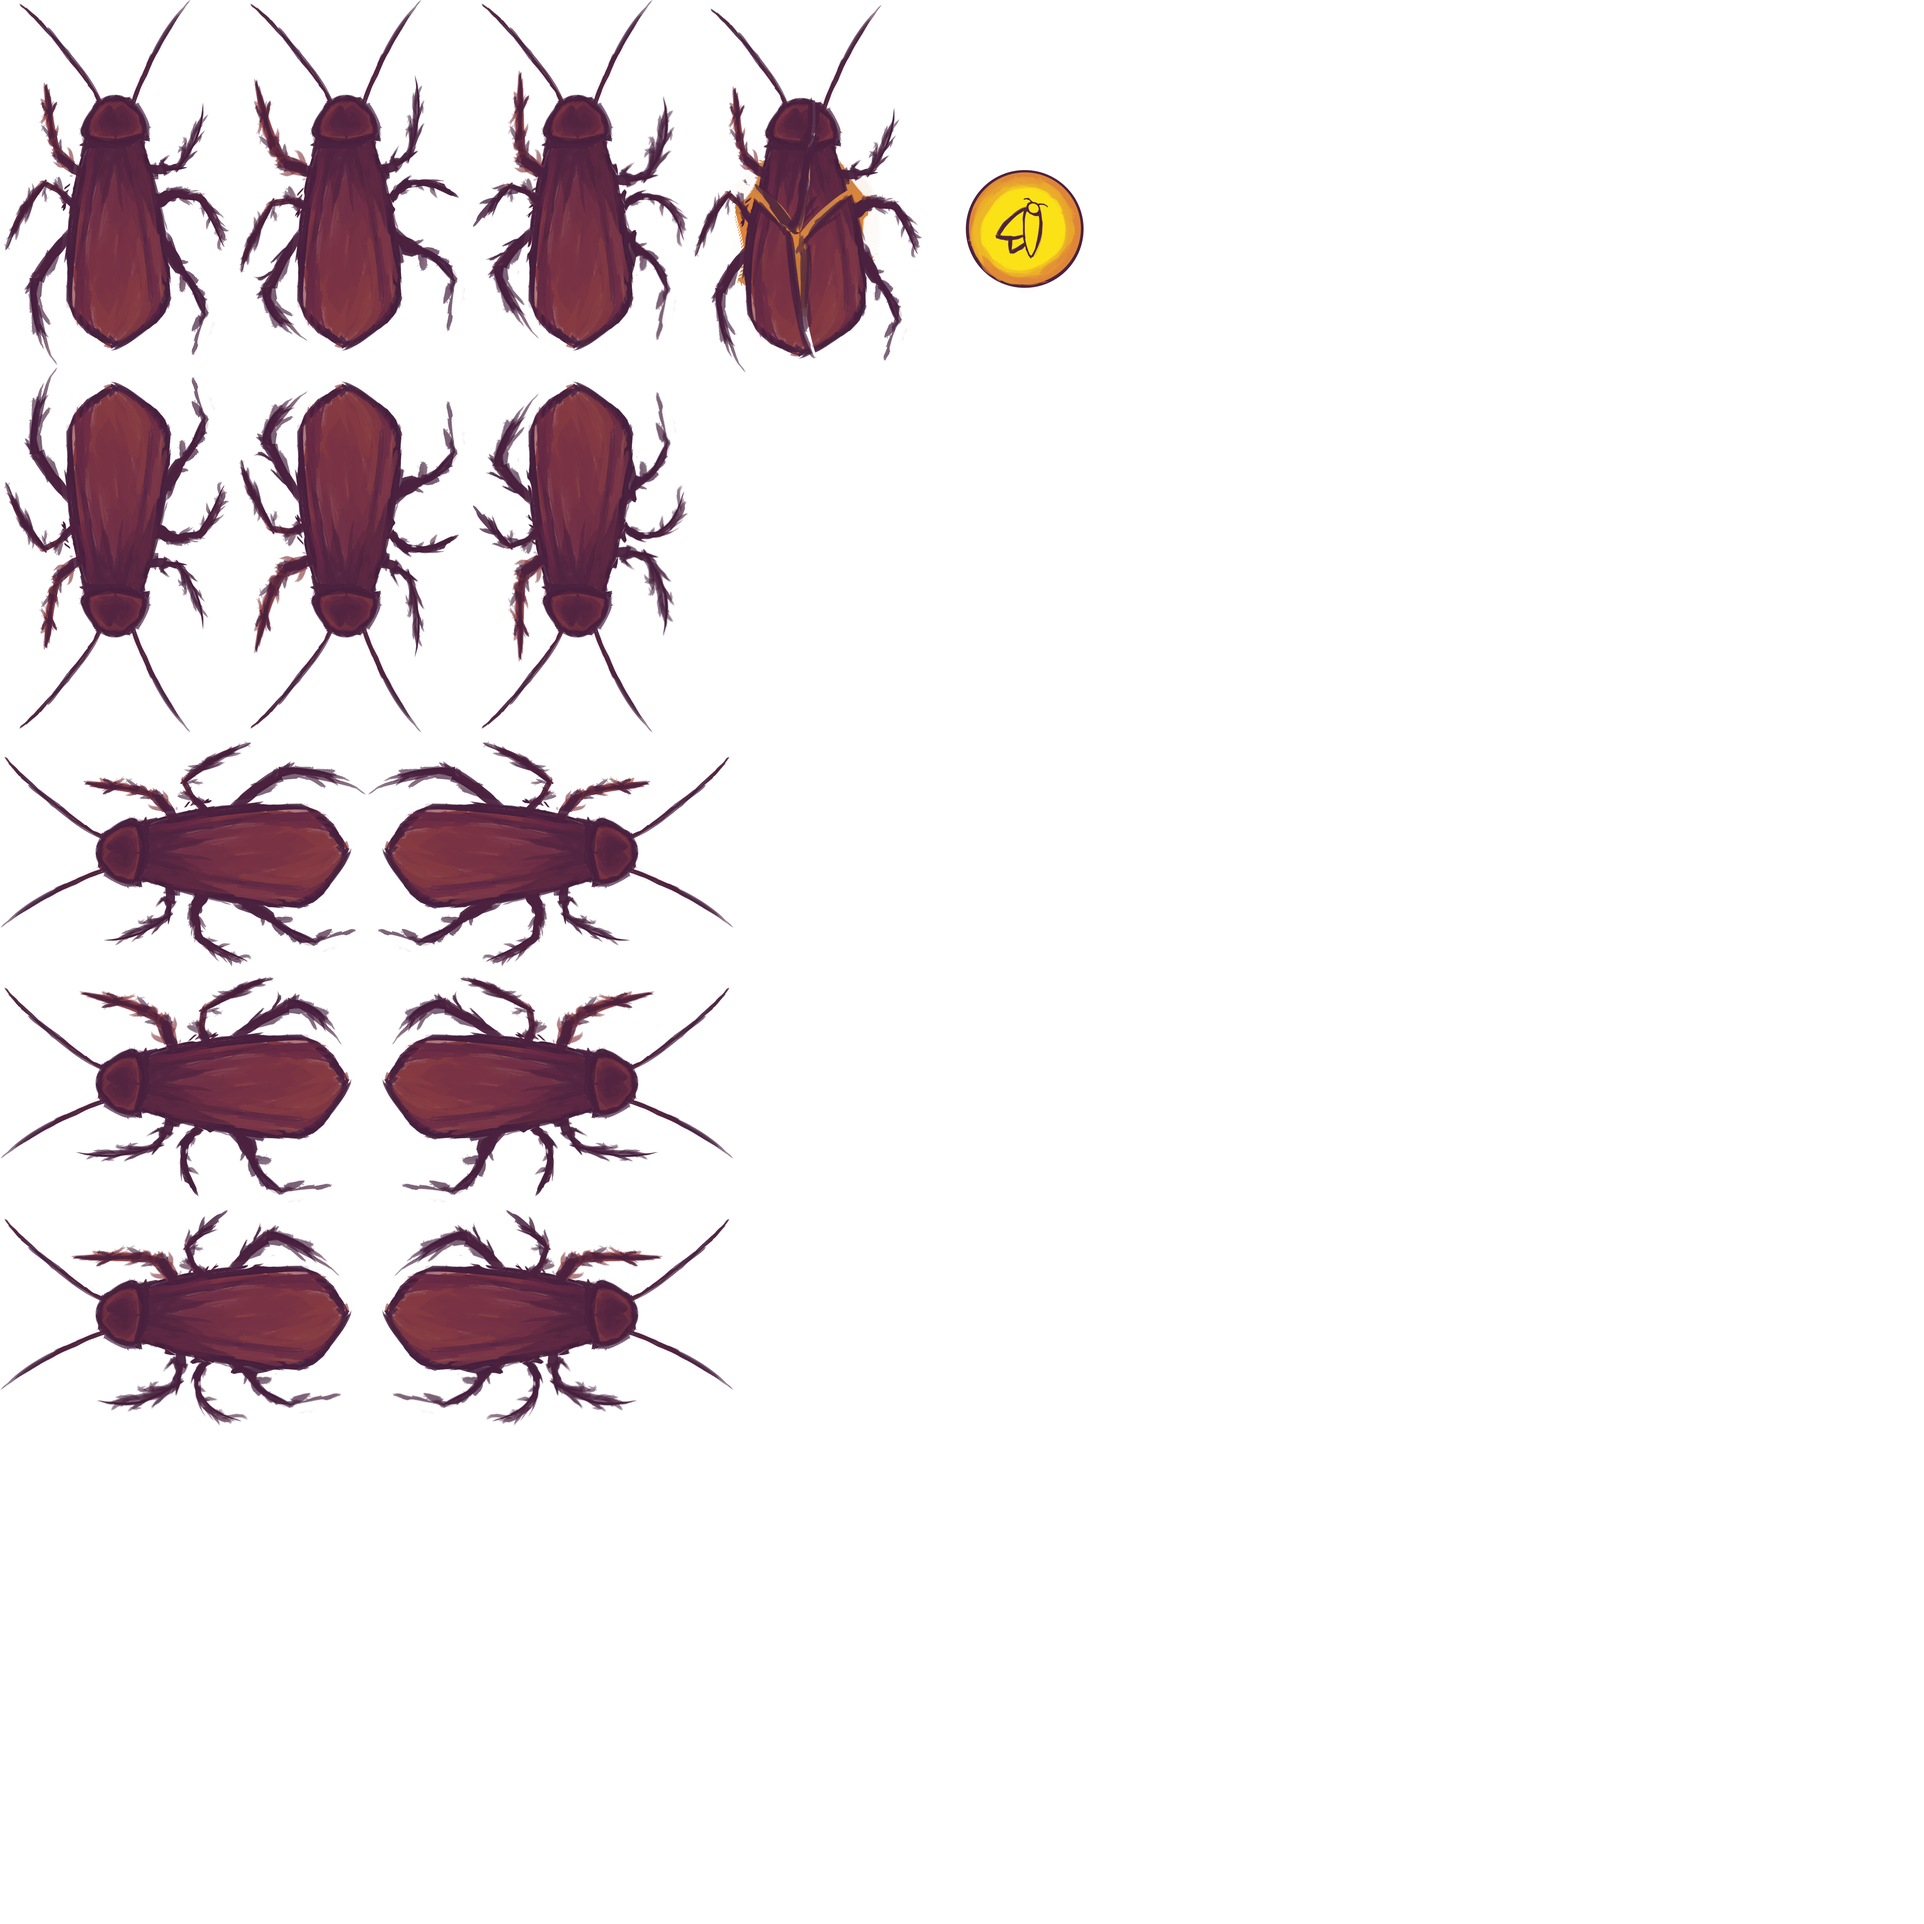
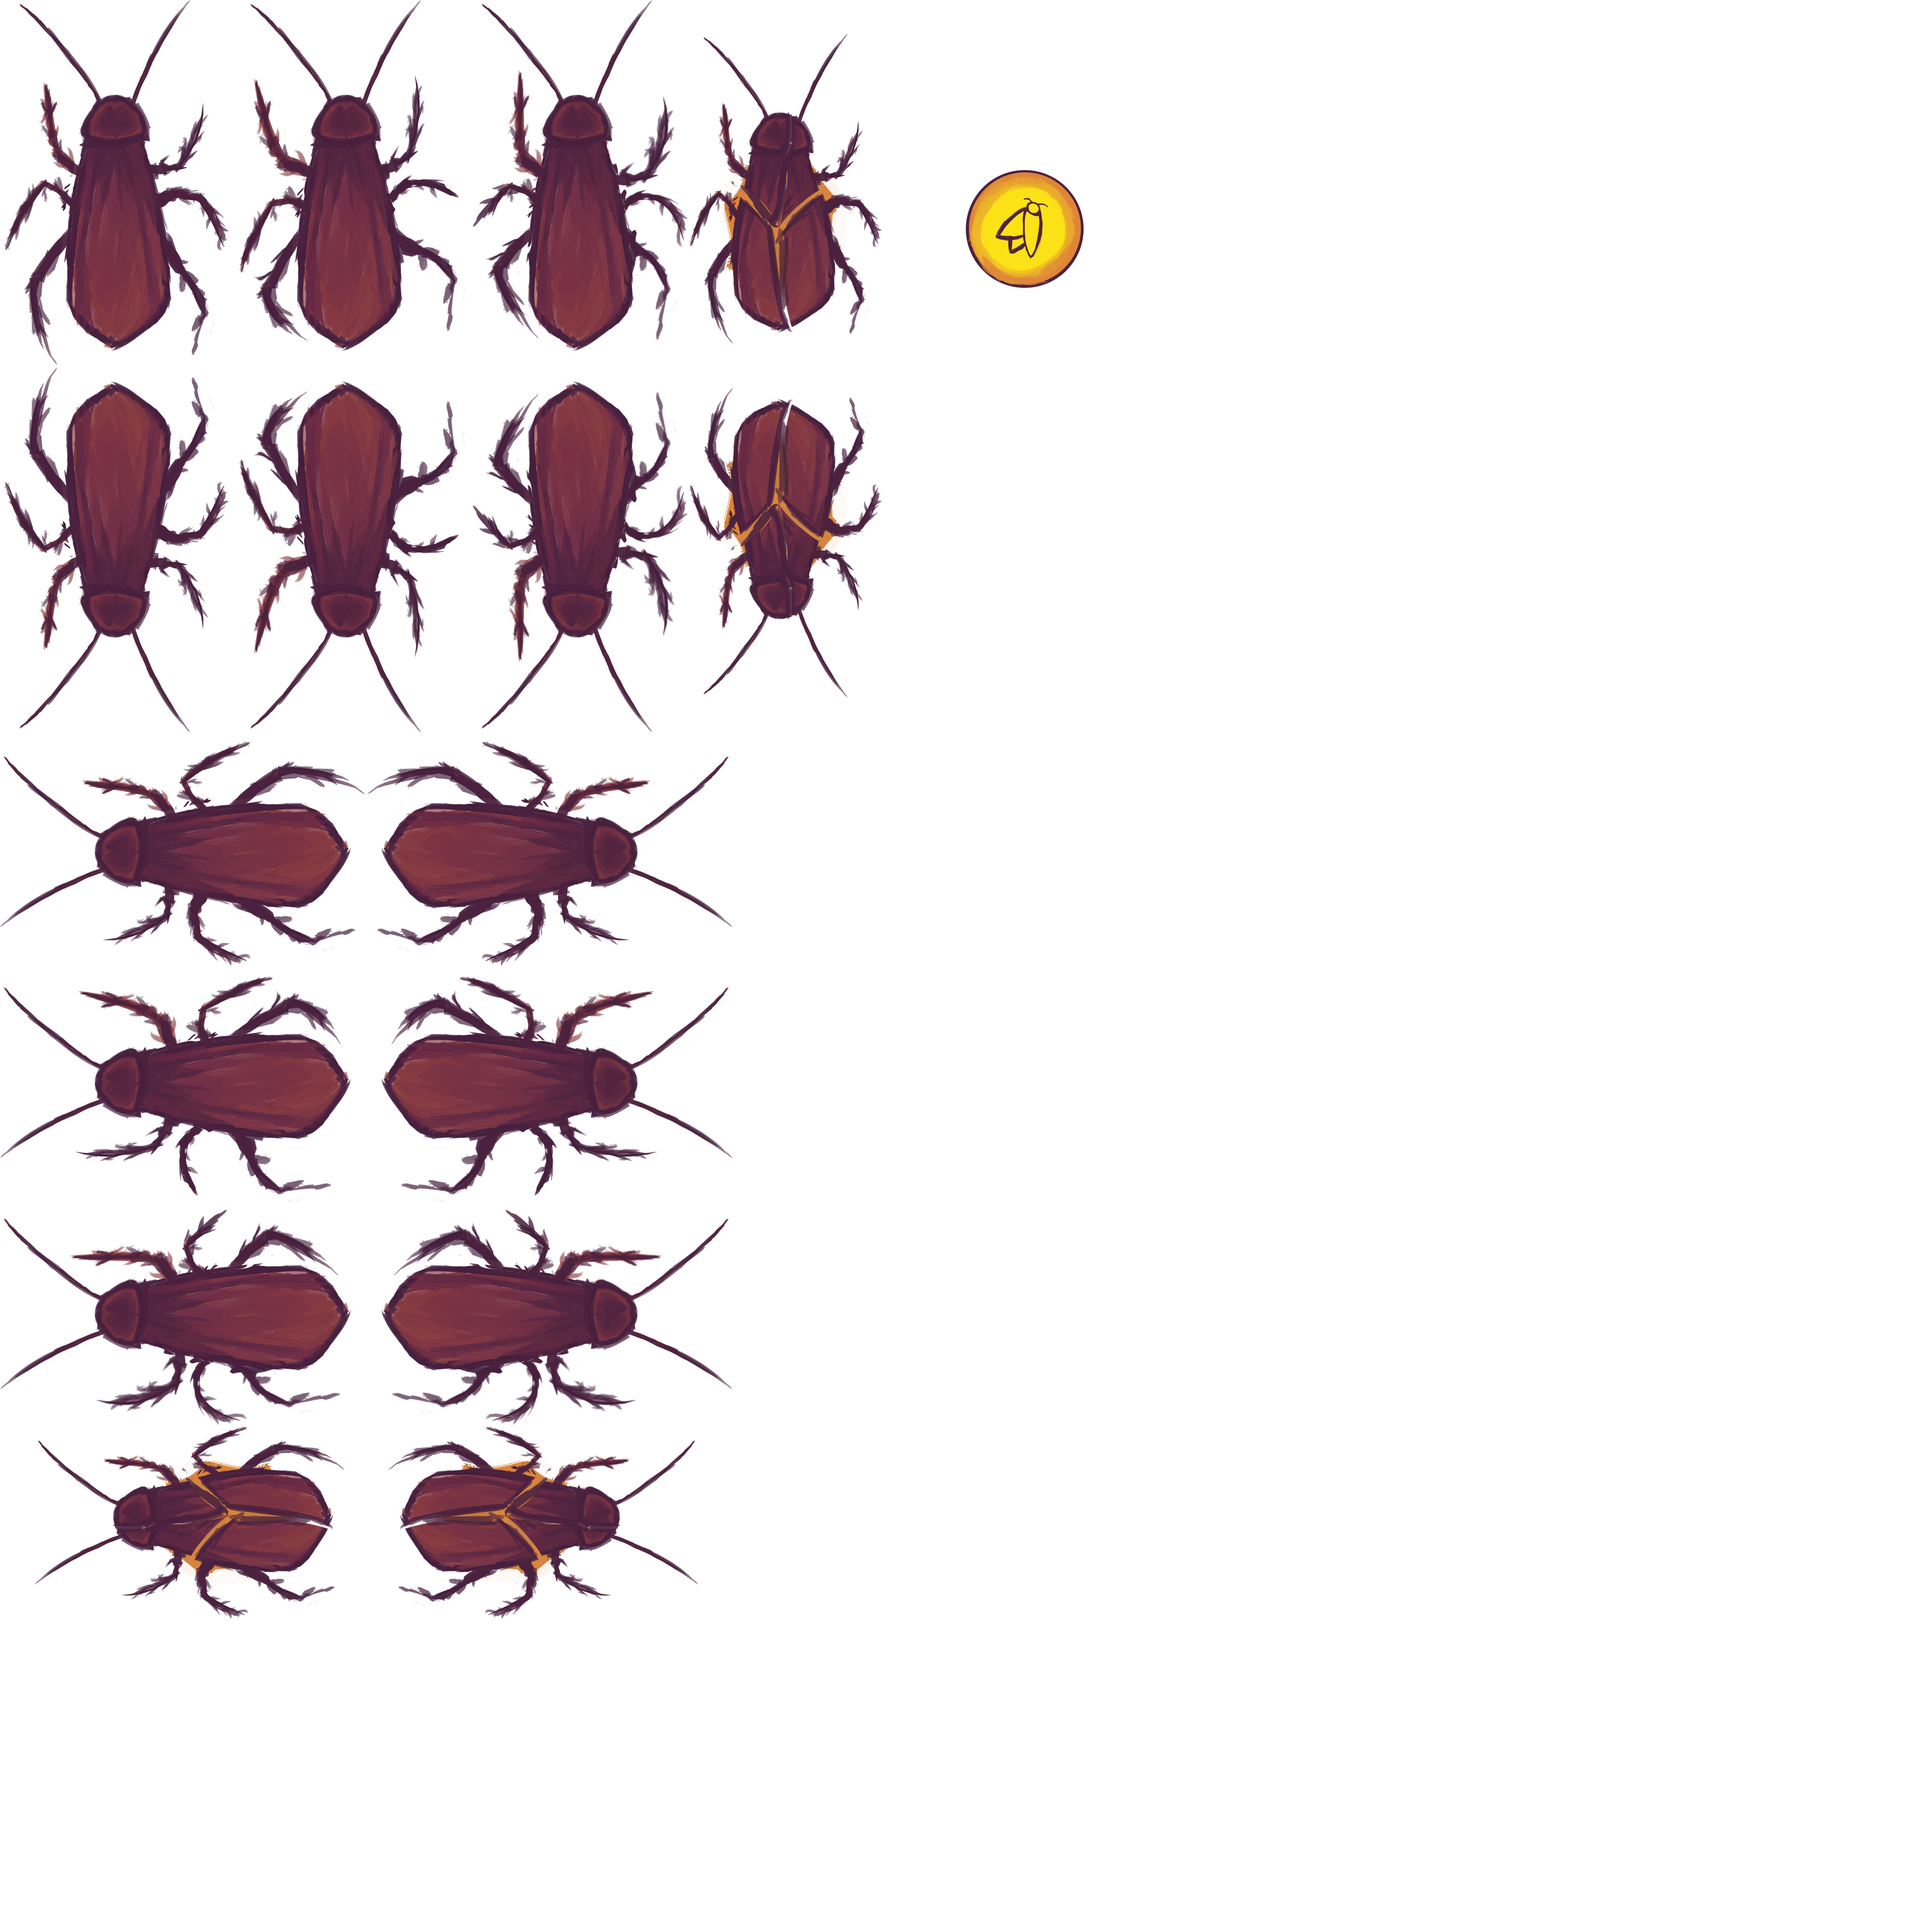
:sparkles: :art: death/squished sprite

diff --git a/graphics/bug_squish/sketch.js b/graphics/bug_squish/sketch.js
@@ -1,245 +1,3 @@
-// let spriteSheet;
-//
-// let spriteSheetFilenames = ["bug2.png" ];
-// let spriteSheets = [];
-// let animations = [];
-//
-// const GameState = {
-//   Start: "Start",
-//   Playing: "Playing",
-//   GameOver: "GameOver"
-// };
-//
-// let game = { score: 0, maxScore: 0, maxTime: 10, elapsedTime: 0, totalSprites: 15, state: GameState.Start, targetSprite: 2 };
-//
-// function preload() {
-//   for(let i=0; i < spriteSheetFilenames.length; i++) {
-//     spriteSheets[i] = loadImage("assets/" + spriteSheetFilenames[i]);
-//   }
-// }
-//
-// function setup() {
-//   createCanvas(400, 400);
-//   imageMode(CENTER);
-//   angleMode(DEGREES);
-//
-//   reset();
-// }
-//
-// function reset() {
-//   game.elapsedTime = 0;
-//   game.score = 0;
-//   game.totalSprites = random(10,30);
-//
-//   animations = [];
-//   for(let i=0; i < game.totalSprites; i++) {
-//     animations[i] = new WalkingAnimation(random(spriteSheets),32,32,random(100,300),random(100,300),9,random(0.5,1),4,random([0,1]));
-//   }
-// }
-//
-// function draw() {
-//   switch(game.state) {
-//     case GameState.Playing:
-//       background(220);
-//   
-//       for(let i=0; i < animations.length; i++) {
-//         animations[i].draw();
-//       }
-//       fill(0);
-//       textSize(40);
-//       text(game.score,20,40);
-//       let currentTime = game.maxTime - game.elapsedTime;
-//       text(ceil(currentTime), 300,40);
-//       game.elapsedTime += deltaTime / 1000;
-//
-//       if (currentTime < 0)
-//         game.state = GameState.GameOver;
-//       break;
-//     case GameState.GameOver:
-//       game.maxScore = max(game.score,game.maxScore);
-//
-//       background(0);
-//       fill(255);
-//       textSize(40);
-//       textAlign(CENTER);
-//       text("Game Over!",200,200);
-//       textSize(35);
-//       text("Score: " + game.score,200,270);
-//       text("Max Score: " + game.maxScore,200,320);
-//       break;
-//     case GameState.Start:
-//       background(0);
-//       fill(255);
-//       textSize(50);
-//       textAlign(CENTER);
-//       text("Cyclops Game",200,200);
-//       textSize(30);
-//       text("Press Any Key to Start",200,300);
-//       break;
-//   }
-// }
-//
-// function keyPressed() {
-//   switch(game.state) {
-//     case GameState.Start:
-//       game.state = GameState.Playing;
-//       break;
-//     case GameState.GameOver:
-//       reset();
-//       game.state = GameState.Playing;
-//       break;
-//   }
-// }
-//
-// function mousePressed() {
-//   switch(game.state) {
-//     case GameState.Playing:
-//       for (let i=0; i < animations.length; i++) {
-//         let contains = animations[i].contains(mouseX,mouseY);
-//         if (contains) {
-//           if (animations[i].moving != 0) {
-//             animations[i].stop();
-//             if (animations[i].spritesheet === spriteSheets[game.targetSprite])
-//               game.score += 1;
-//             else
-//               game.score -= 1;
-//           }
-//           else {
-//             if (animations[i].xDirection === 1)
-//               animations[i].moveRight();
-//             else
-//               animations[i].moveLeft();
-//           }
-//         }
-//       }
-//       break;
-//     // case GameState.GameOver:
-//     //   reset();
-//     //   game.state = GameState.Playing;
-//     //   break;
-//   }
-//   
-// }
-//
-// class WalkingAnimation {
-//   constructor(spritesheet, spriteWidth, spriteHeight,
-//     locationX, locationY,
-//     animationLength,
-//     movementSpeed,
-//     framerate,
-//     onlyMoveVertically = false
-//   ) {
-//     this.spritesheet = spritesheet;
-//     this.spriteWidth = spriteWidth;
-//     this.spriteHeight = spriteHeight;
-//
-//     this.locationX = locationX;
-//     this.locationY = locationY;
-//
-//     this.u = 0;
-//     this.v = 0;
-//     this.animationLength = animationLength;
-//     this.currentFrame = 0;
-//
-//     this.moving = 1;
-//     this.xDirection = 1;
-//     this.movementSpeed = movementSpeed;
-//     this.framerate = framerate*movementSpeed;
-//     this.onlyMoveVertically = onlyMoveVertically;
-//   }
-//
-//   draw() {
-//
-//     // if (this.moving != 0)
-//     //   this.u = this.currentFrame % this.animationLength;
-//     // else
-//     //   this.u = 0;
-//
-//     this.u = (this.moving != 0) ? this.currentFrame % this.animationLength : this.u;
-//     push();
-//     translate(this.locationX,this.locationY);
-//     if (!this.onlyMoveVertically)
-//       rotate(90);
-//     scale(this.xDirection,1);
-//     
-//
-//     //rect(-26,-35,50,70);
-//
-//     image(this.spritesheet,0,0,
-//       this.spriteWidth,this.spriteHeight,
-//       this.u*this.spriteWidth,
-//       this.v*this.spriteHeight,
-//       this.spriteWidth,this.spriteHeight);
-//     pop();
-//     let proportionalFramerate = round(frameRate() / this.framerate);
-//     if (frameCount % proportionalFramerate == 0) {
-//       this.currentFrame++;
-//     }
-//   
-//     if (this.onlyMoveVertically) {
-//       this.locationY += this.moving*this.movementSpeed;
-//       this.move(this.locationY,this.spriteWidth / 4,height - this.spriteWidth / 4);
-//     }
-//     else {
-//       this.locationX += this.moving*this.movementSpeed;
-//       this.move(this.locationX,this.spriteWidth / 4,width - this.spriteWidth / 4);
-//     }
-//
-//     
-//   }
-//
-//   move(position,lowerBounds,upperBounds) {
-//     if (position > upperBounds) {
-//       this.moveLeft();
-//     } else if (position < lowerBounds) {
-//       this.moveRight();
-//     }
-//   }
-//
-//   moveRight() {
-//     this.moving = 1;
-//     this.xDirection = 1;
-//     this.v = 0;
-//   }
-//
-//   moveLeft() {
-//     this.moving = -1;
-//     this.xDirection = -1;
-//     this.v = 0;
-//   }
-//
-//   keyPressed(right, left) {
-//     if (keyCode === right) {
-//       
-//       this.currentFrame = 1;
-//     } else if (keyCode === left) {
-//
-//       this.currentFrame = 1;
-//     }
-//   }
-//
-//   keyReleased(right,left) {
-//     if (keyCode === right || keyCode === left) {
-//       this.moving = 0;
-//     }
-//   }
-//
-//   contains(x,y) {
-//     //rect(-26,-35,50,70);
-//     let insideX = x >= this.locationX - 26 && x <= this.locationX + 25;
-//     let insideY = y >= this.locationY - 35 && y <= this.locationY + 35;
-//     return insideX && insideY;
-//   }
-//
-//   stop() {
-//     this.moving = 0;
-//     this.u = 7;
-//     this.v = 8;
-//   }
-// }
-//
-// ///////////////////////////////////////////////////////////////
-
 //Canvas properties:
 let CANVAS_WIDTH = 2000;
 let CANVAS_HEIGHT = 1200;
@@ -358,7 +116,7 @@ function draw() {
   // noSmooth();
   // image(spriteSheet, 0, 200, 220, 400, 600, 0, 600, 960);
   // image(spriteSheet, 0, 200, 220, 400, 0, 1016, 600, 960);
-  // image(spriteSheet, 0, 200, 400, 220, 0, 1945, 960, 600);
+  image(spriteSheet, 0, 200, 400, 220, 0, 3725, 960, 600);
   // image(spriteSheet, 0, 200, 165, 250, 2500, 0, 500, 825);
 }
 
@@ -368,6 +126,7 @@ function restart() {
   scoreData.score = 0;
   console.log("score", gameData.score);
   gameData.amountOfBug = random(12, 30);
+  // gameData.amountOfBug = 1;
 
   bugArray = [];
   for(let i = 0; i < gameData.amountOfBug; i++) {
@@ -519,12 +278,11 @@ class Bug {
     push();
     noSmooth();
 
-    this.checkCanvasCollision();
 
-
-    let baseFramerate = 1*this.movementSpeed;
-    let proportionalFramerate = round(frameRate() / baseFramerate);
     if(this.isAlive) {
+      this.checkCanvasCollision();
+      let baseFramerate = 1*this.movementSpeed;
+      let proportionalFramerate = round(frameRate() / baseFramerate);
       if(frameCount % proportionalFramerate === 0) {
         // console.log("call");
         this.animationHandler();
@@ -538,26 +296,32 @@ class Bug {
     // console.log(this.hitboxCheck(mouseX, mouseY));
     // this.hitboxCheck(mouseX, mouseY);
     // image(spriteSheet, 0, 200, 220, 400, 0, 0, 600, 960);
-    if(this.isAlive) {
-      if(this.onlyMoveVertically) {
-        image(
-          spriteSheet, this.initalX, this.initalY,
-          this.destinationX*this.sizeScaling, this.destinationY*this.sizeScaling,
-          this.spriteXCoordinate + (this.spriteWidth * this.currentFrame),
-          this.spriteYCoordinate,
-          this.spriteWidth, this.spriteHeight
-        )
-      }
-      else if(this.onlyMoveHorizontally) {
-        image(
-          spriteSheet, this.initalX, this.initalY,
-          this.destinationX*this.sizeScaling, this.destinationY*this.sizeScaling,
-          this.spriteXCoordinate,
-          this.spriteYCoordinate + (this.spriteHeight * this.currentFrame),
-          this.spriteWidth, this.spriteHeight
-        )
-      }
+    // if(this.isAlive) {
+    if(this.onlyMoveVertically) {
+      console.log("vertical render", this.currentFrame);
+      // console.log( this.currentFrame);
+      image(
+        spriteSheet, this.initalX, this.initalY,
+        this.destinationX*this.sizeScaling, this.destinationY*this.sizeScaling,
+        this.spriteXCoordinate + (this.spriteWidth * this.currentFrame),
+        this.spriteYCoordinate,
+        this.spriteWidth, this.spriteHeight
+      )
     }
+    else if(this.onlyMoveHorizontally) {
+      // image(spriteSheet, 0, 200, 400, 220, 0, 3725, 960, 600);
+      console.log("hor render");
+
+      console.log(this.spriteYCoordinate + (this.spriteHeight * this.currentFrame));
+      image(
+        spriteSheet, this.initalX, this.initalY,
+        this.destinationX*this.sizeScaling, this.destinationY*this.sizeScaling,
+        this.spriteXCoordinate,
+        this.spriteYCoordinate + (this.spriteHeight * this.currentFrame),
+        this.spriteWidth, this.spriteHeight
+      )
+    }
+    // }
     pop();
   }
 
@@ -566,20 +330,21 @@ class Bug {
     // console.log("check hitbox...");
     // rect(12, 10, this.spriteWidth - 23, this.spriteHeight - 16);
     let insideX = (x <= this.initalX + this.destinationX*this.sizeScaling && x >= this.initalX);
-    console.log("condition 1:", this.initalX + this.destinationX*this.sizeScaling);
-    console.log("condition 2:", this.initalX);
-    console.log("x:", insideX);
+    // console.log("condition 1:", this.initalX + this.destinationX*this.sizeScaling);
+    // console.log("condition 2:", this.initalX);
+    // console.log("x:", insideX);
     let insideY = (y <= this.initalY + this.destinationY*this.sizeScaling && y >= this.initalY);
-    console.log("y:", insideY);
+    // console.log("y:", insideY);
     return (insideX && insideY)
   }
   squished() {
+    console.log("squished");
     this.movementSpeed = 0;
     this.isAlive = false;
-    this.spriteXCoordinate = 2500;
-    this.spriteYCoordinate = 0;
-    this.spriteWidth = 500;
-    this.currentFrame = 0;
+    // this.spriteXCoordinate = 2500;
+    // this.spriteYCoordinate = 0;
+    // this.spriteWidth = 500;
+    this.currentFrame = 3;
     // image(spriteSheet, 0, 200, 220, 400, 1800, 0, 600, 960);
     // image(spriteSheet, 0, 200, 165, 250, 2500, 0, 500, 825);
 
@@ -658,6 +423,7 @@ class Bug {
   }
 
   animationHandler() {
+    console.log("animation called");
     if(this.currentFrame < 2) {
       this.currentFrame += 1;
     }
